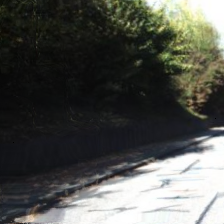
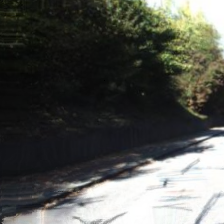
Higher learning rate 3e-4, 20 epochs, .45 relative loss at end
Notes: 10 epochs is enough for basically convergence.

diff --git a/src/run_model.py b/src/run_model.py
@@ -23,9 +23,9 @@ BATCH_SIZE = 64
 DATA_DIR = "preprocess/prep_res"
 PRINT_EVERY = 20
 
-NUM_EPOCHS = 10
+NUM_EPOCHS = 20 
 DROPOUT = 0.15
-INIT_LR = 2e-4
+INIT_LR = 4e-4
 is_local = False
 
 overfit_small = False
